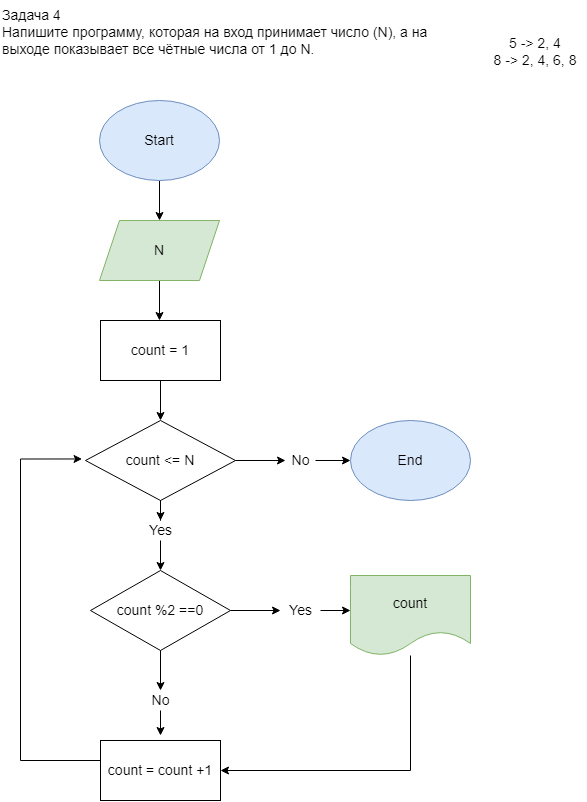
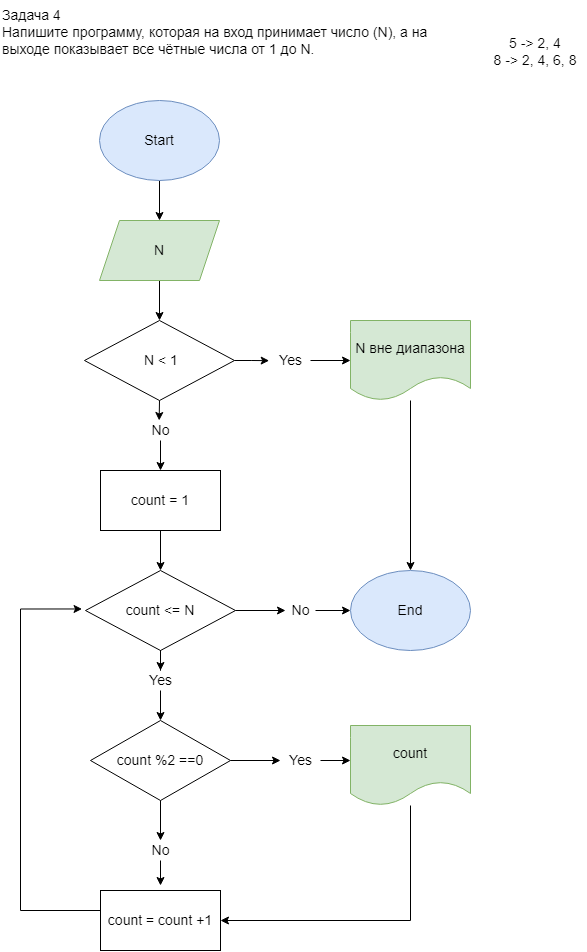
Add check for correct number input

diff --git a/Seminar1/Task4/Program.cs b/Seminar1/Task4/Program.cs
@@ -1,21 +1,28 @@
 // программа, которая на вход принимает число (N),
 // а на выходе показывает все чётные числа от 1 до N
 
-// предполагаем что в задче все числа целые, положительные
+// предполагаем что в задче все числа целые
 
-int N = 11;
-int count = 1;
+int N = 0;
 
-while (count <= N)
+if (N < 1)
 {
-    if (count % 2 == 0)
+    Console.WriteLine(" N вне диапазона");
+}
+else
+{
+    int count = 1;
+    while (count <= N)
     {
-        Console.WriteLine(count);
-        count++;
-    }
-    else
-    {
-        count++;
+        if (count % 2 == 0)
+        {
+            Console.WriteLine(count);
+            count++;
+        }
+        else
+        {
+            count++;
+        }
     }
 }
 
